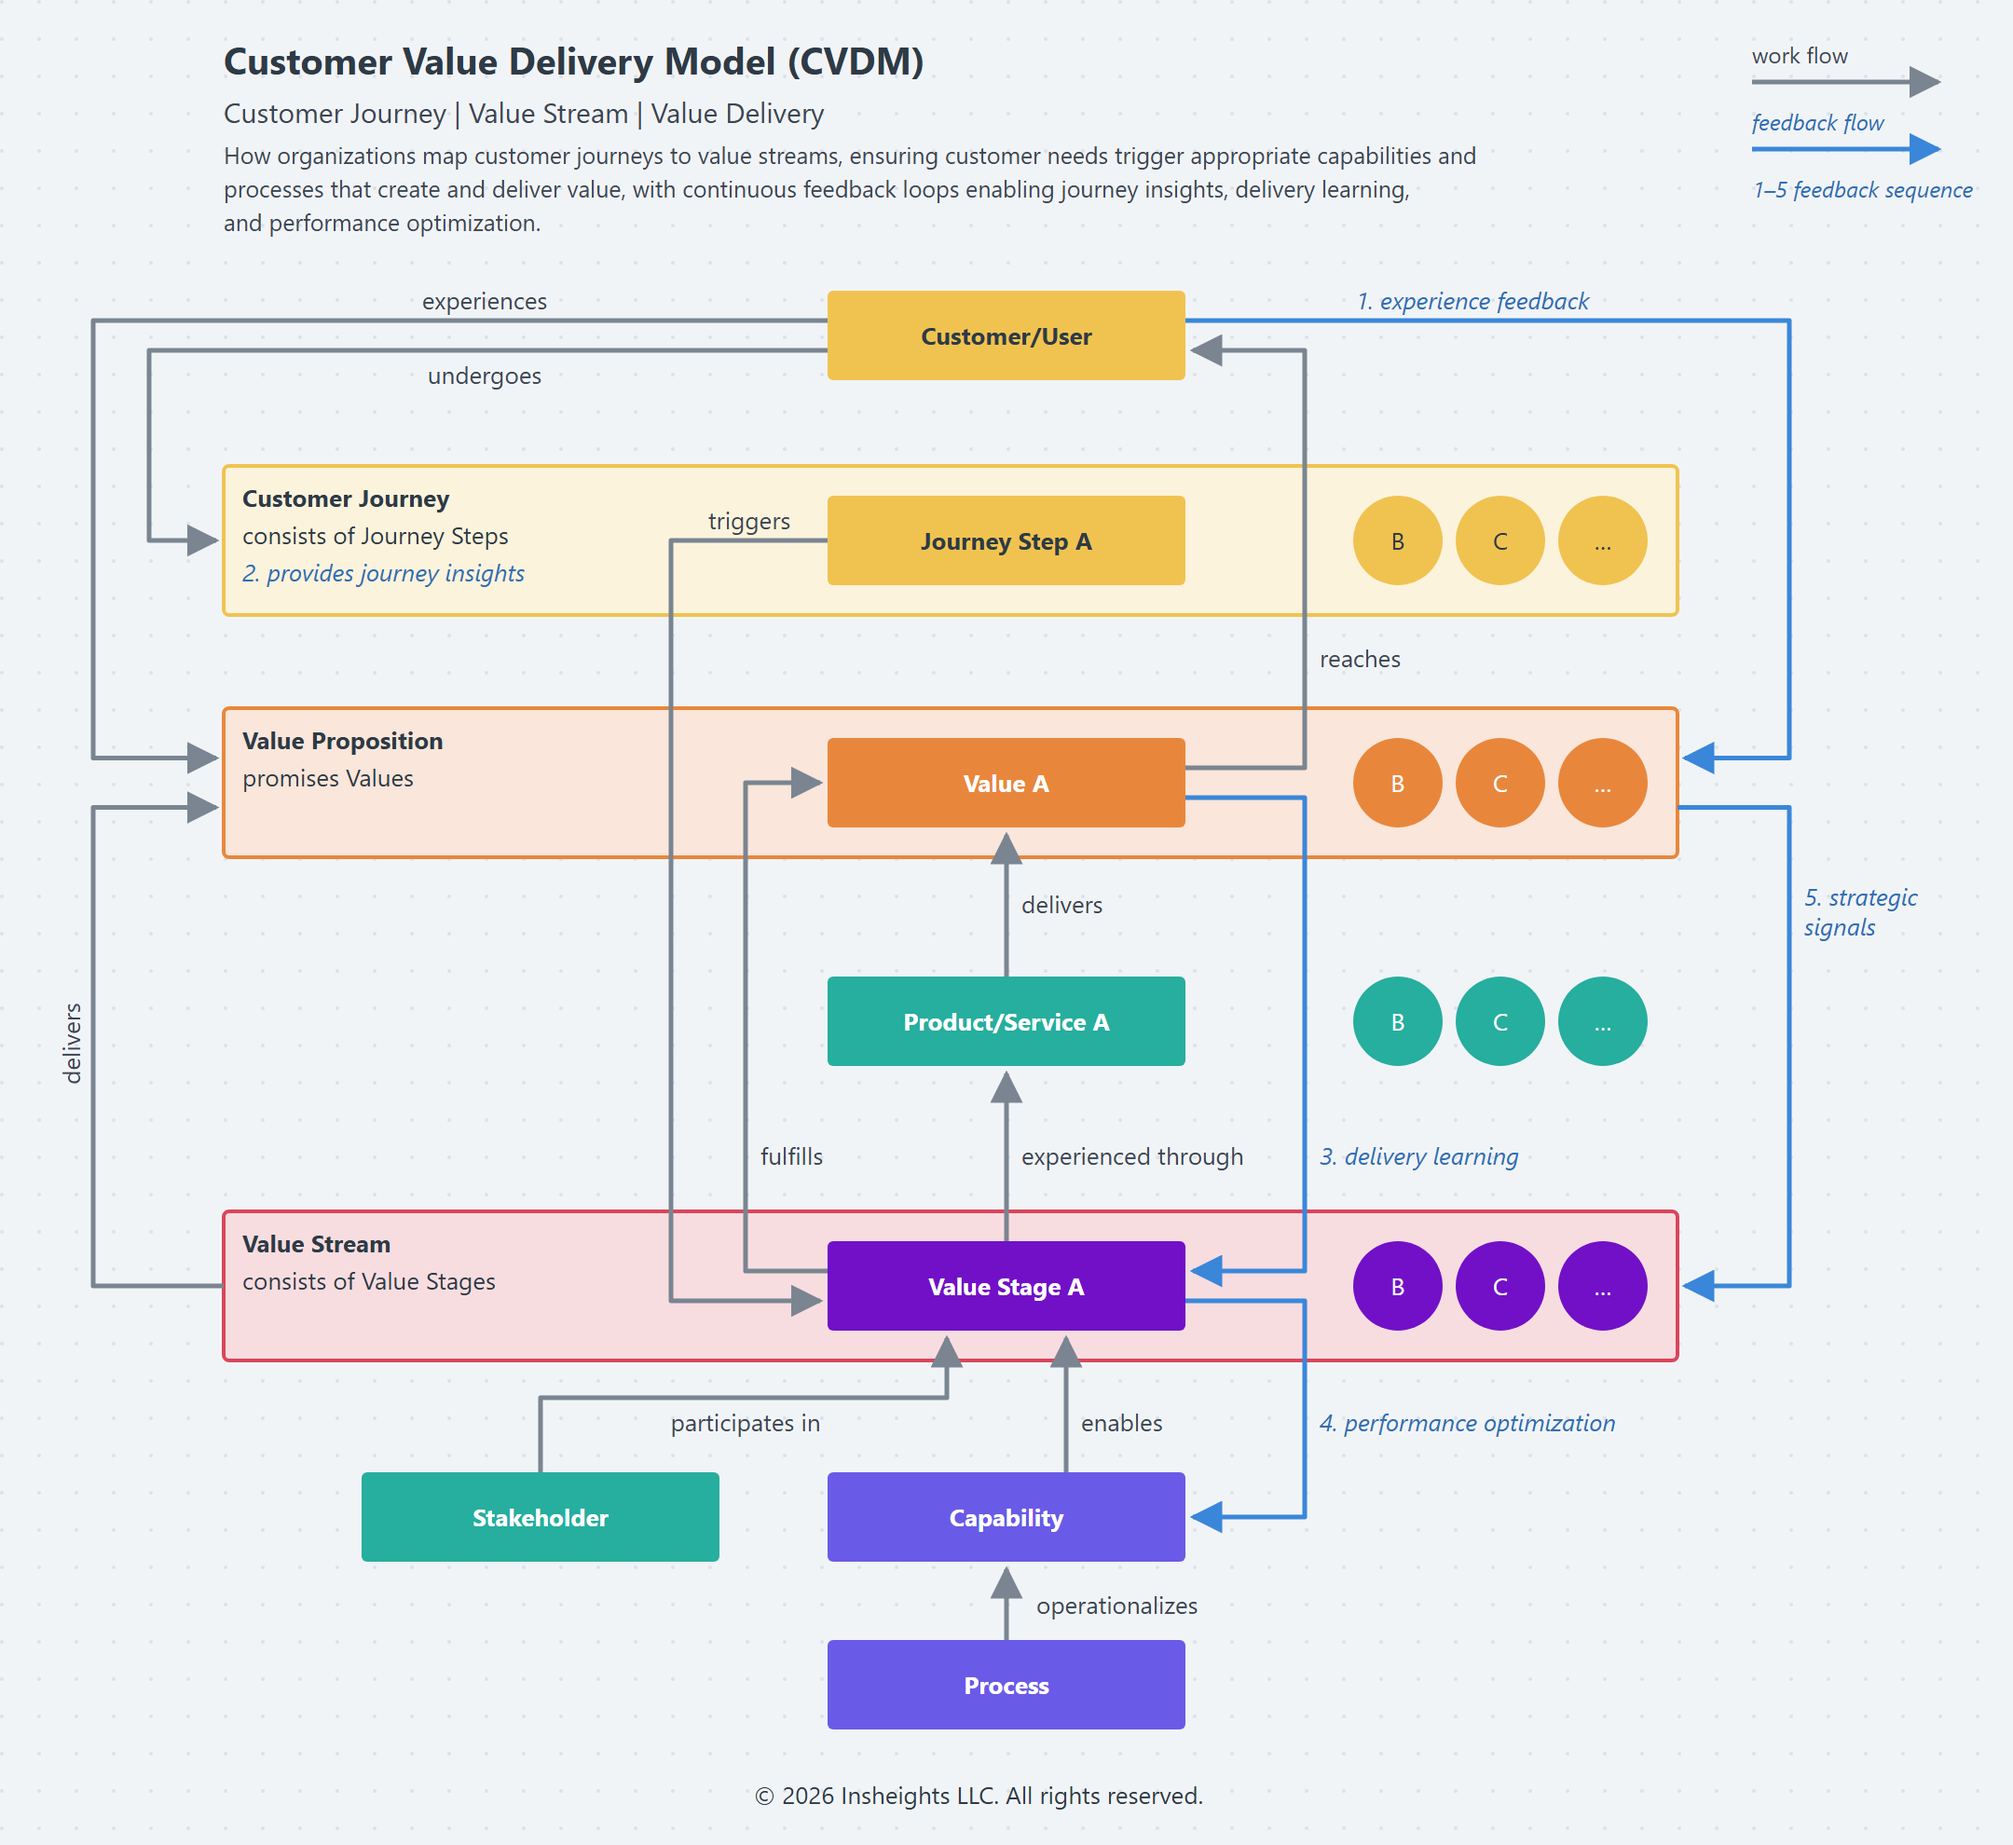
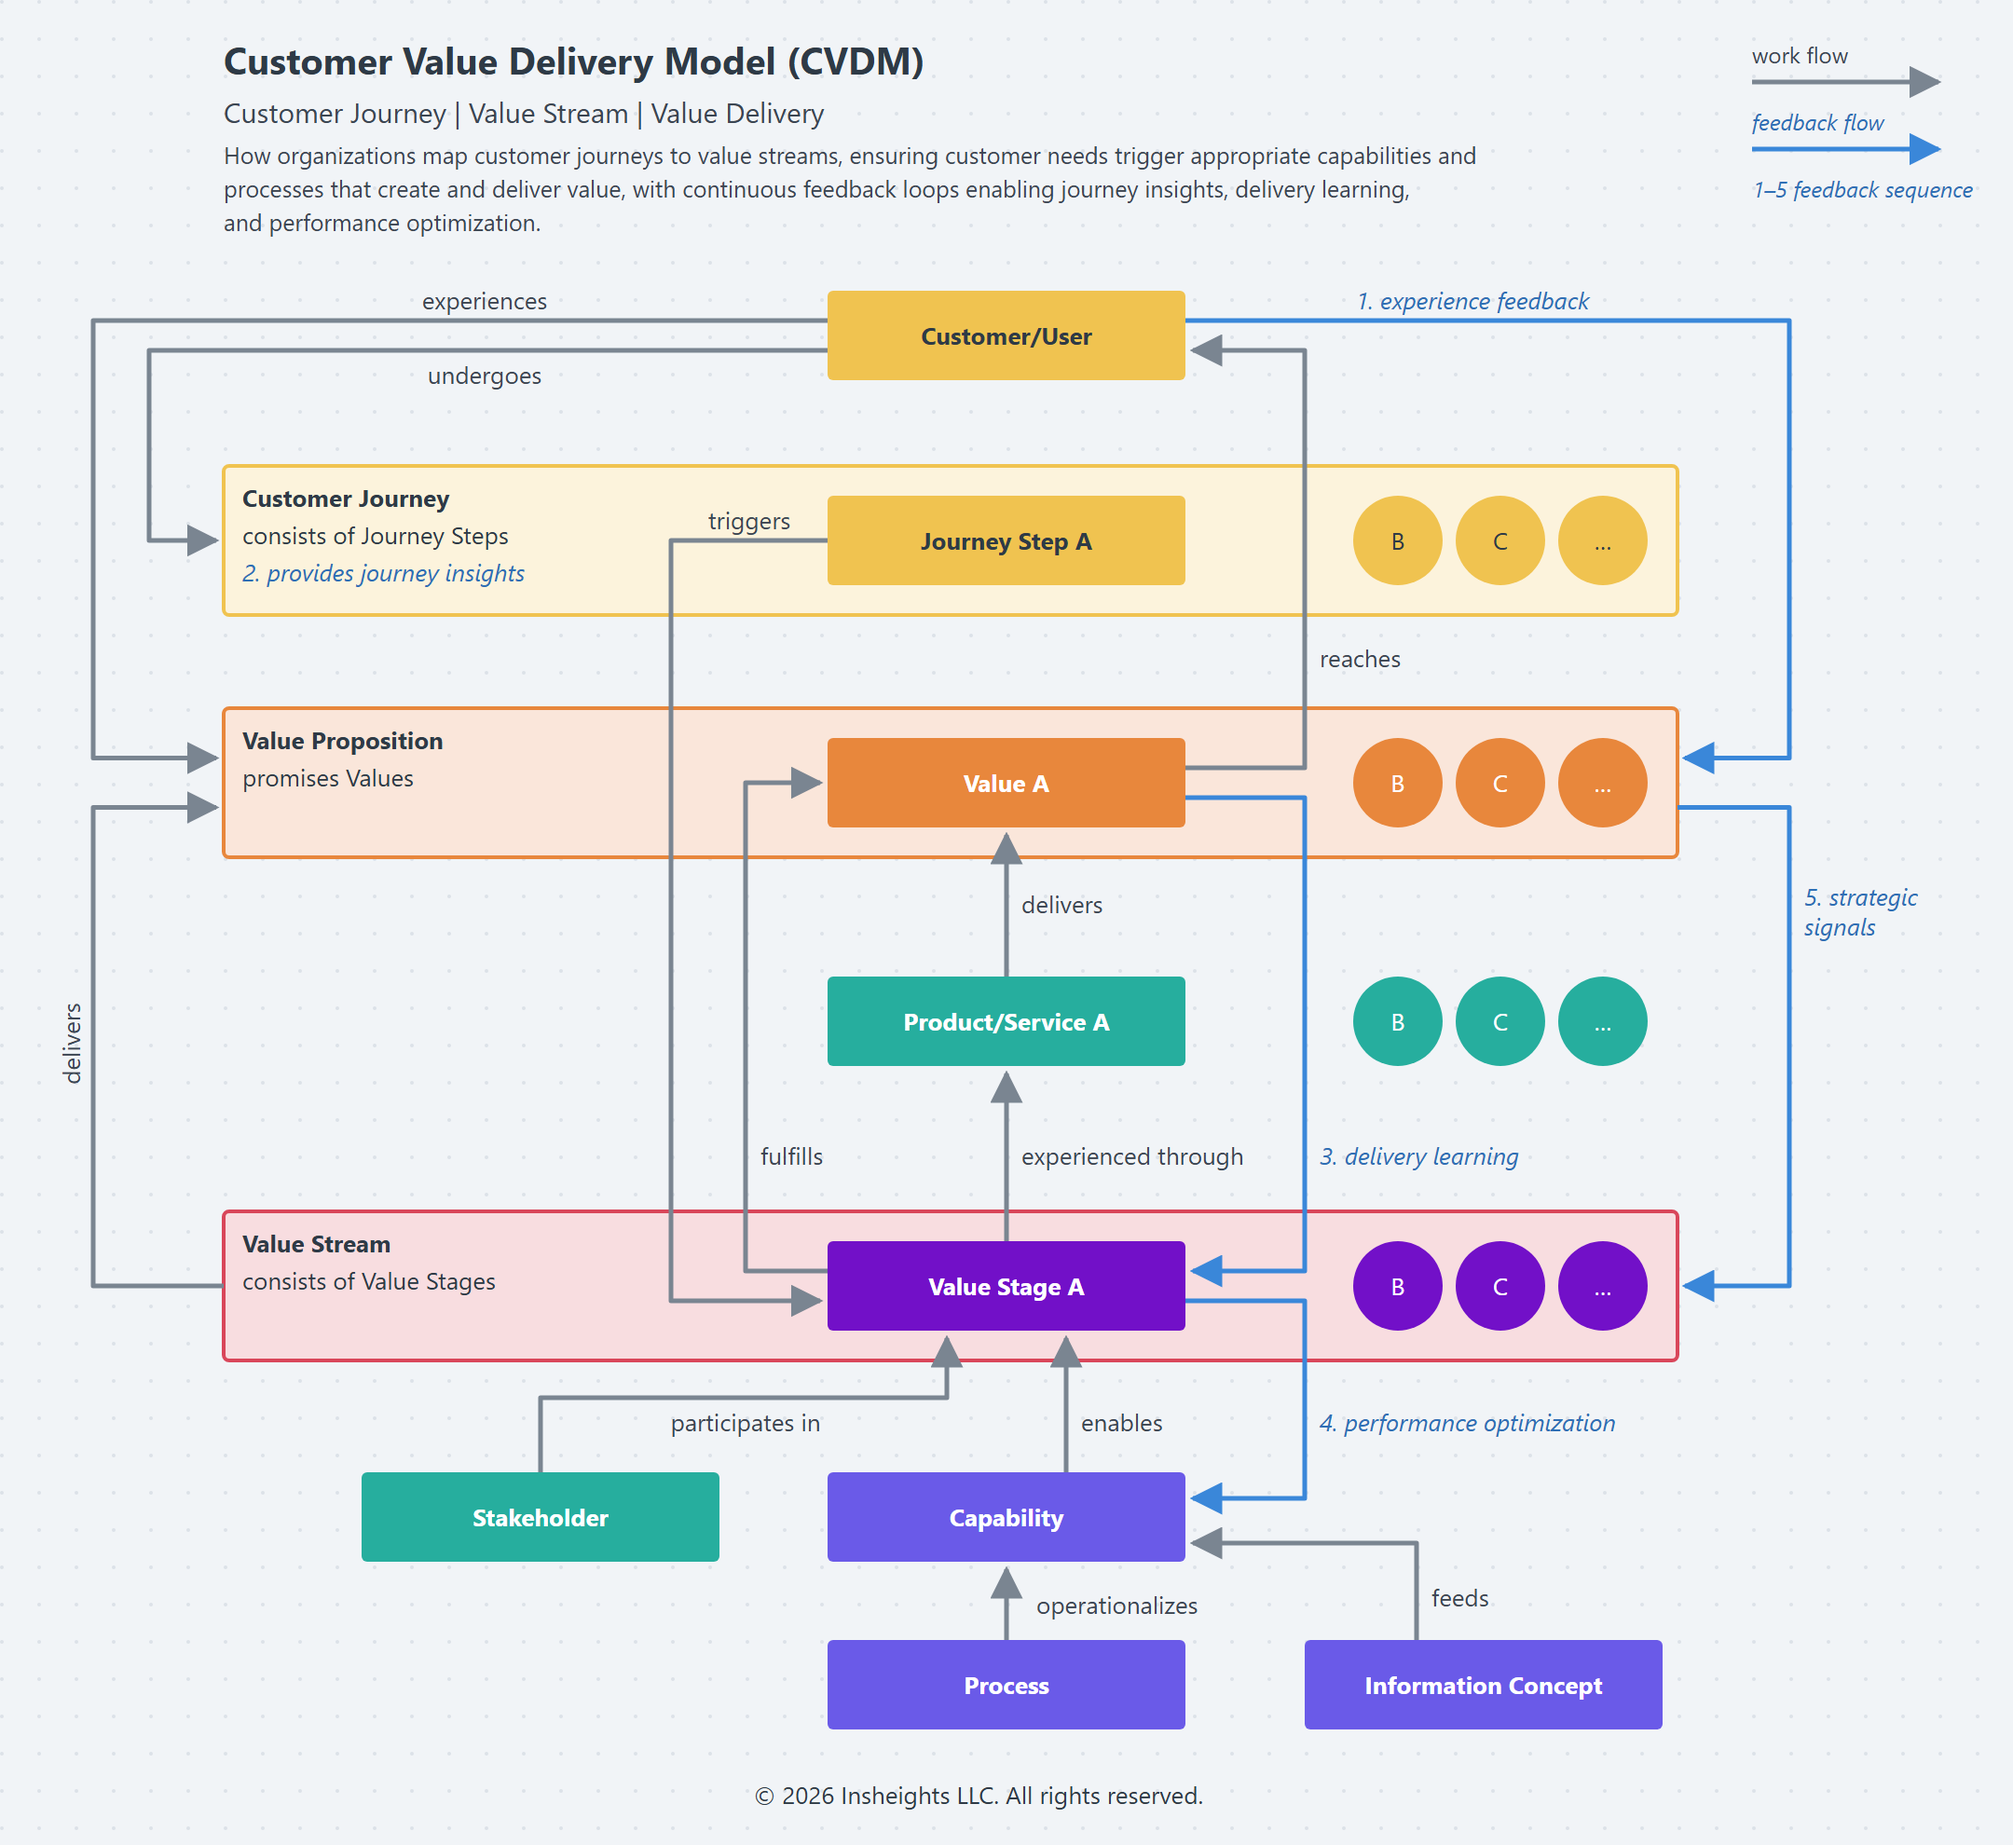
CVDM: add the Information Concept element
- New Information Concept box beside Process, feeding Capability (work
  flow, "feeds"), as README and the CVDM guide list information as part
  of what CVDM defines. Loop 4 moves up on Capability's right edge so
  the two arrowheads stay clear.
- CVDM guide Step 3 and README name Information concepts and their
  flows; glossary feed / feeds covers the new arrow.

Changed region(s): [[0.6204, 0.8318, 0.8375, 0.9551], [0.5894, 0.801, 0.6514, 0.8626]]

diff --git a/guides/cvdm-practitioners-guide.md b/guides/cvdm-practitioners-guide.md
@@ -93,7 +93,7 @@ Each step below is an action. Complete them in order — later steps depend on e
 
 ### Step 3 — Operationalize capabilities, processes, products/services, and information flows
 
-**What you do:** For each value stage, define what is required to deliver it: the Products/Services the customer interacts with, the Capabilities the team must hold, the Processes that execute, and the Information flows that connect them. This is where the value stage becomes operational.
+**What you do:** For each value stage, define what is required to deliver it: the Products/Services the customer interacts with, the Capabilities the team must hold, the Processes that execute, and the Information concepts, and the flows that feed them to capabilities. This is where the value stage becomes operational.
 
 **Key question this step answers:** *What must exist and execute for each value stage to deliver its outcome?*
 
@@ -101,7 +101,7 @@ Each step below is an action. Complete them in order — later steps depend on e
 **Output:** An operational definition per value stage — products/services, capabilities, processes, and information flows
 
 **Guidance:**
-- Work down the architecture: Value Stage → Capability → Process → Product/Service, with Information flows connecting them. Each value stage is delivered by capabilities, which run processes, which the customer meets as products/services.
+- Work down the architecture: Value Stage → Capability → Process → Product/Service, with Information concepts feeding the capabilities. Each value stage is delivered by capabilities, which run processes, which the customer meets as products/services.
 - Information flows are not an afterthought. A value stage fails most often not because a capability is missing, but because information does not flow between capabilities at the moment the customer needs it.
 - Cross-functional ownership applies here: the team owns the full chain for the value stage, not a single process with handoffs to other teams. If delivering a value stage requires a handoff outside the team, revisit the PTS team topology.
 - You are done when each value stage has its capabilities, processes, products/services, and information flows named and owned.

diff --git a/glossary.md b/glossary.md
@@ -92,7 +92,7 @@ Every arrow in the IIVCS diagrams carries a label from this vocabulary, and a wo
 | **enables** | Supplies the ability the target needs to function | CVDM: Capability → Value Stage. Also the PTS → CVDM relation in [Positioning](positioning.md) |
 | **experienced through** | The product or service by which the customer meets the target | CVDM: Value Stage → Product/Service |
 | **experiences** | Encounters directly | CVDM: Customer/User → Value Proposition |
-| **feed** | Supply the behavioural signal the target measures | Measurement Architecture: Customer Journey Steps → AER (customer track); Product Team & Product Operating Model → AER (organization track) |
+| **feed / feeds** | Supplies what the target needs, when it needs it: the signal a measure reads, or the information a capability acts on | CVDM: Information Concept → Capability. Measurement Architecture: Customer Journey Steps → AER (customer track); Product Team & Product Operating Model → AER (organization track) |
 | **flags risk** | Raises a risk signal for the target to act on | OSM: Enterprise Risk Mgmt → Governance & Measurement; → Execution & Deployment |
 | **fulfills** | Meets a promise | CVDM: Value Stage → Value |
 | **funds** | Commits budget and capacity | OSM: Governance & Measurement → Execution & Deployment. PTS: Objectives by value stream → product team |

diff --git a/README.md b/README.md
@@ -110,7 +110,7 @@ Each Product Mindset principle has a direct role in PTS:
 
 **Customer Journey | Value Stream | Value Delivery**
 
-CVDM ensures every Customer/User journey step triggers the right Value Stream stage — defining the Products/Services, Capabilities, Processes, and Information flows required to deliver the Value Proposition as a realized customer outcome — with five continuous feedback loops covering experience feedback, journey insights, delivery learning, performance optimization, and strategic signals.
+CVDM ensures every Customer/User journey step triggers the right Value Stream stage — defining the Products/Services, Capabilities, Processes, and Information concepts (and their flows) required to deliver the Value Proposition as a realized customer outcome — with five continuous feedback loops covering experience feedback, journey insights, delivery learning, performance optimization, and strategic signals.
 
 Product Mindset, carried into CVDM by empowered teams from PTS, is where it moves from philosophy to practice.
 
